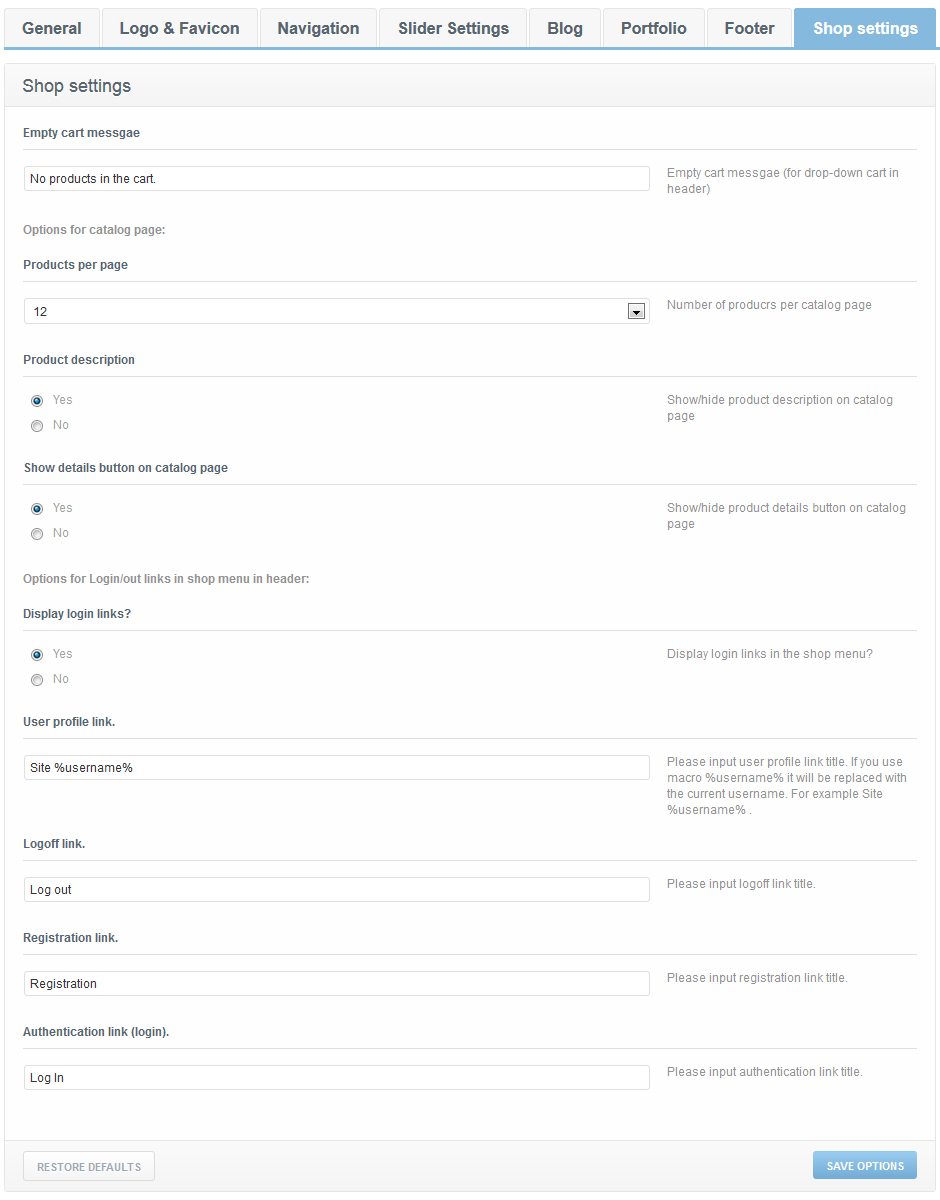
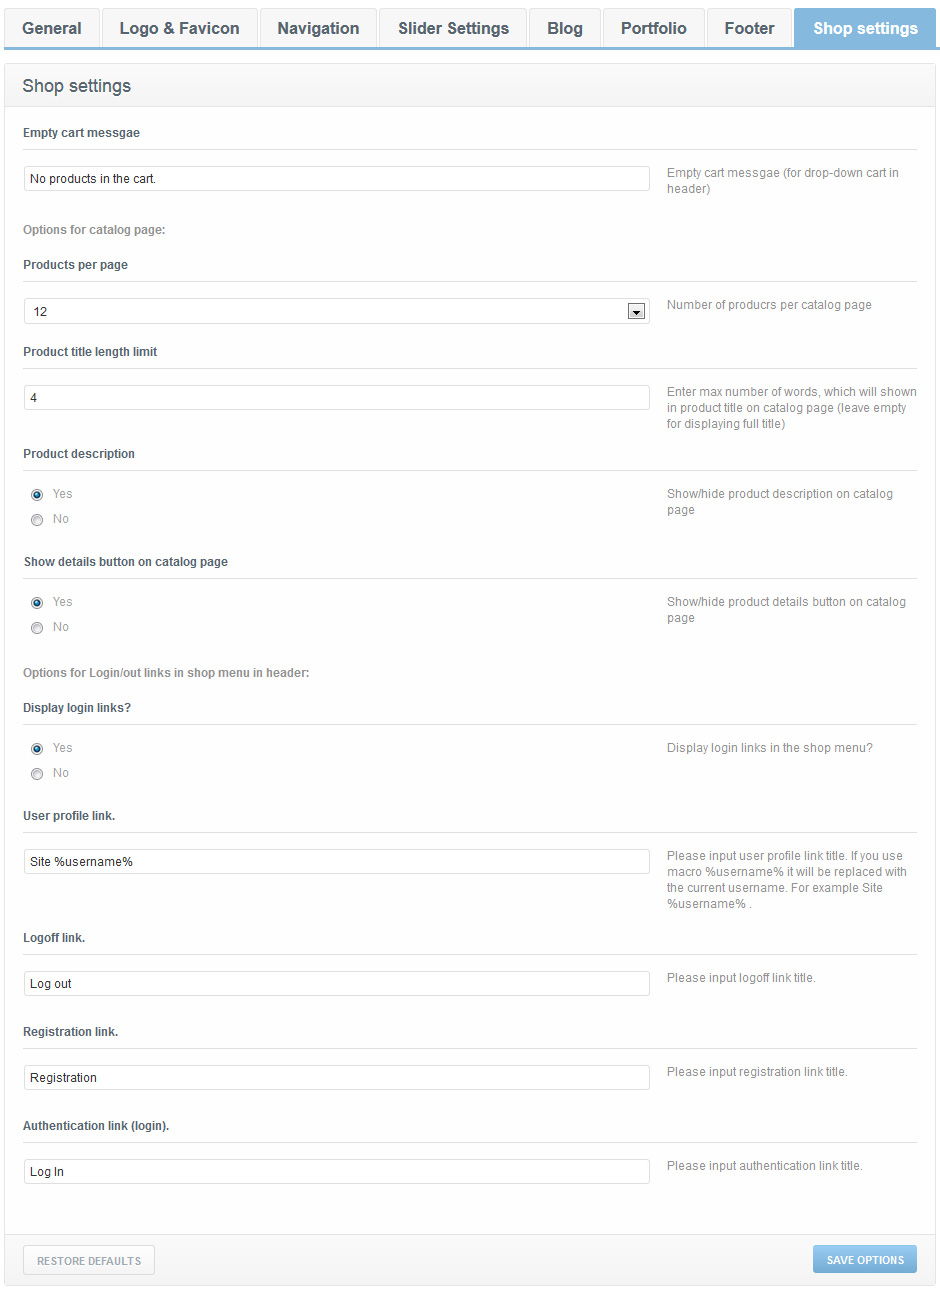
New option

diff --git a/index_en.html b/index_en.html
@@ -1627,7 +1627,9 @@
       <div class="row"> 
       <figure class="img-paraloid pull-left" style="width:40%;"><a href="img/wordpress/theme_options_shop.jpg" class="pretty_image" data-gal="prettyPhoto"><img src="img/wordpress/theme_options_shop.jpg" alt=""><i class="icon-search"></i></a></figure>
       <ul>
+        <li><i class="icon-angle-right"></i> <strong>Empty cart message</strong> - Empty cart message (for drop-down cart in header)</li>
         <li><i class="icon-angle-right"></i> <strong>Products per page</strong> - Number of producrs per catalog page</li>
+        <li><i class="icon-angle-right"></i> <strong>Product title length limit</strong> - Max number of words, which will shown in product title on catalog page (leave empty for displaying full title)</li>
         <li><i class="icon-angle-right"></i> <strong>Product description</strong> - Show/hide product description on catalog page</li>
         <li><i class="icon-angle-right"></i> <strong>Show details button on catalog page</strong> - Show/hide product details button on catalog page</li>
         <li><i class="icon-angle-right"></i> <strong>Display login links?</strong> - Display login links in the shop menu?</li>
